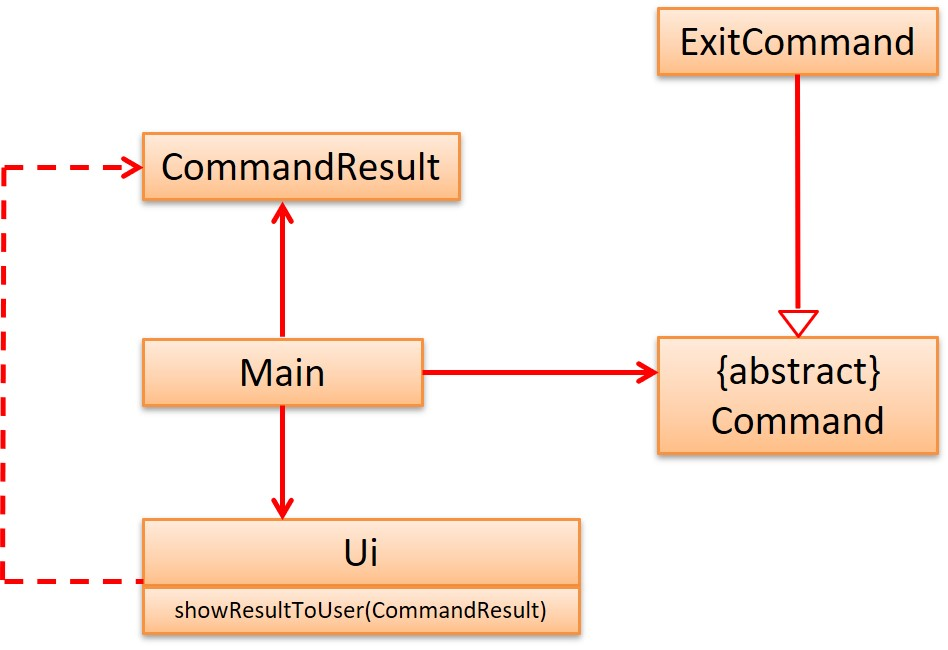
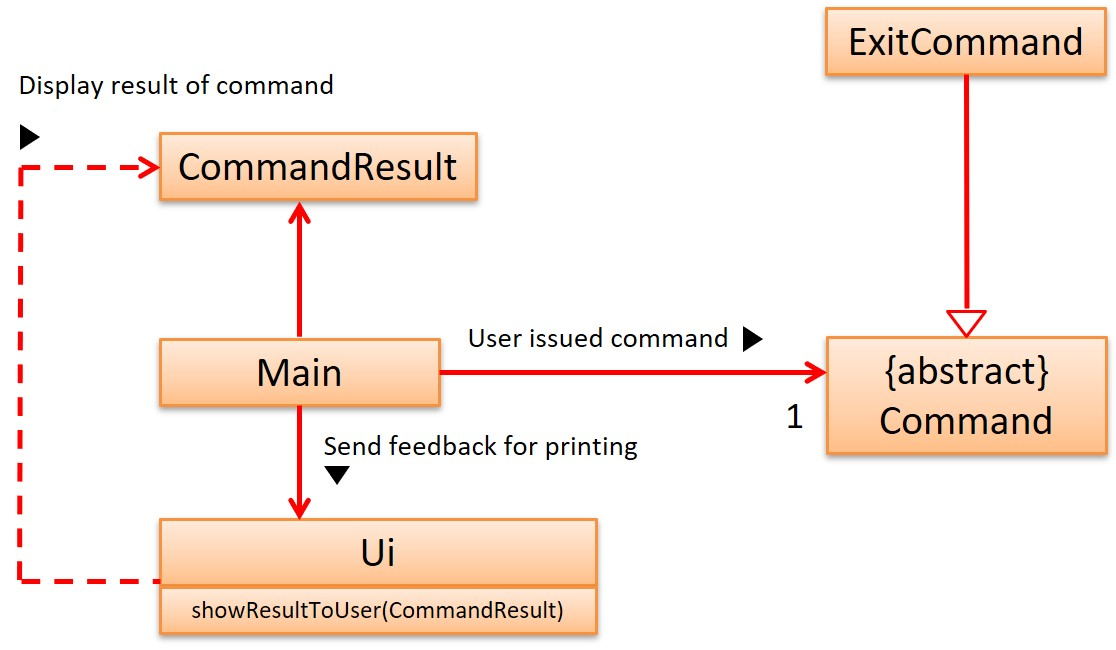
Update information on basic architecture

diff --git a/docs/DeveloperGuide.md b/docs/DeveloperGuide.md
@@ -5,7 +5,8 @@
     * [Description](#13-description)
 * [Design](#2-design)
     * [Architecture](#21-architecture)
-    * [Task Component](#22-task-component)
+    * [UI](#22-ui)
+    * [Task Component](#23-task-component)
     * []
 * [Implementation](#3-implementation)
   * [Undo features](#31-proposed-features)
@@ -88,7 +89,7 @@ Below, we will describe the essential components that CAFS uses:
 1. Task - Contains all the necessary information and implementations required to interact with the list of tasks
 1. Commons - Component represents a collection of classes used by multiple other components
 
-### 2.1. UI
+### 2.2. UI
 * The UI component is not navigable from Command because all results from commands are passed back to main, in the form of `CommandResult`
 * UI component then takes in the CommandResult object and displays the feedback from the inputted command
 
@@ -96,15 +97,33 @@ Here is a simplified class diagram to illustrate this interaction:
 
 ![Command Result UI](images/UiResult.jpg)
 
+Ideally, all messages or output meant to be displayed should use the UI class instead of calling a system print or any other method.
+
+At the moment, the only outliers are certain exception error handling messages which will be standardised to follow this principle in a later version.
+
 ### 2.3. Task Component
-The TaskList Component relies on 2 other components:
+
+The TaskList Component depends on 2 other components:
 1. Storage 
-2. Command 
-
-
-    1. Class - to contain information about a class / timetable schedule
-    1. TaskNonClass -  to contain information about all other tasks that user needs to complete or be reminded of
+    * The Storage component is responsible for loading in any saved data stored locally, as well as updating the saved file 
+    when changes to the task list have been made
     
+2. Command 
+    * The Command component executes the specific set of instructions required to fulfill a particular user command
+    based on user input.
+
+![Command Result UI](images/TaskDiagram.jpg)
+
+The abstract class Task comprises of two subclasses:
+* Class - to contain information about a class / timetable schedule
+* TaskNonClass -  to contain information about all other tasks that user needs to complete or be reminded of
+
+In total, Task component comprises of 4 classes:
+1. TaskList - Methods called by commands to operate on task list. Also contains the actual list which stores all tasks.
+1. Task - Abstract class to model a generic task
+1. Class - Specialised class to model a student's timetable
+1. Task - Specialised class to model an actionable task / todo
+
 ## 3. Implementation
 ### 3.1 [Proposed] Features
 #### 3.1.1 List By Category
